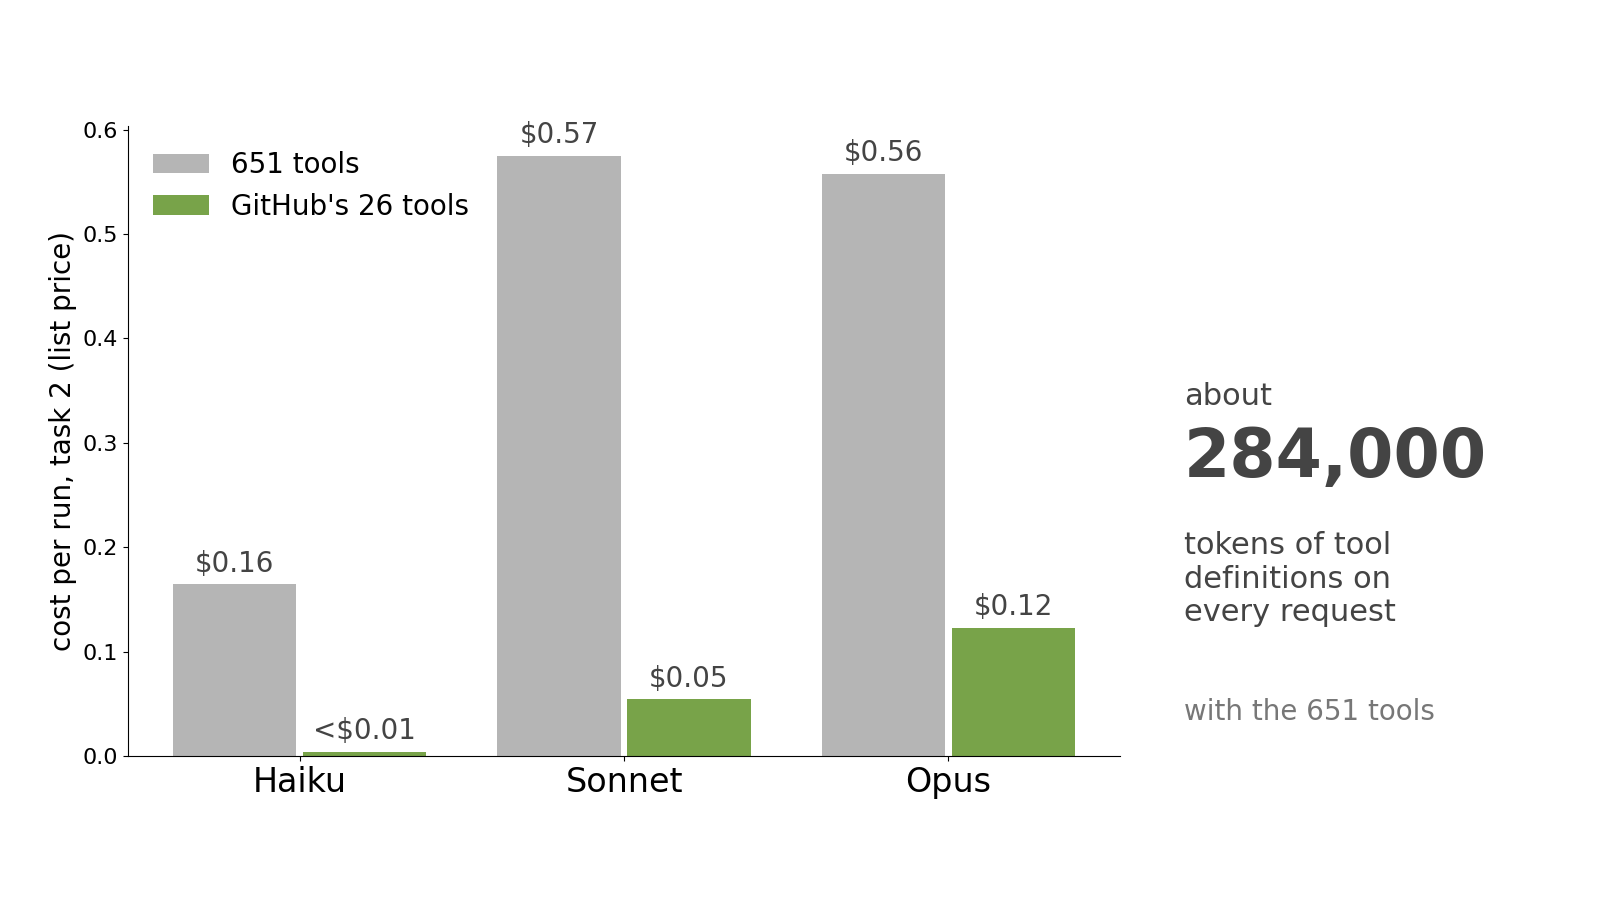
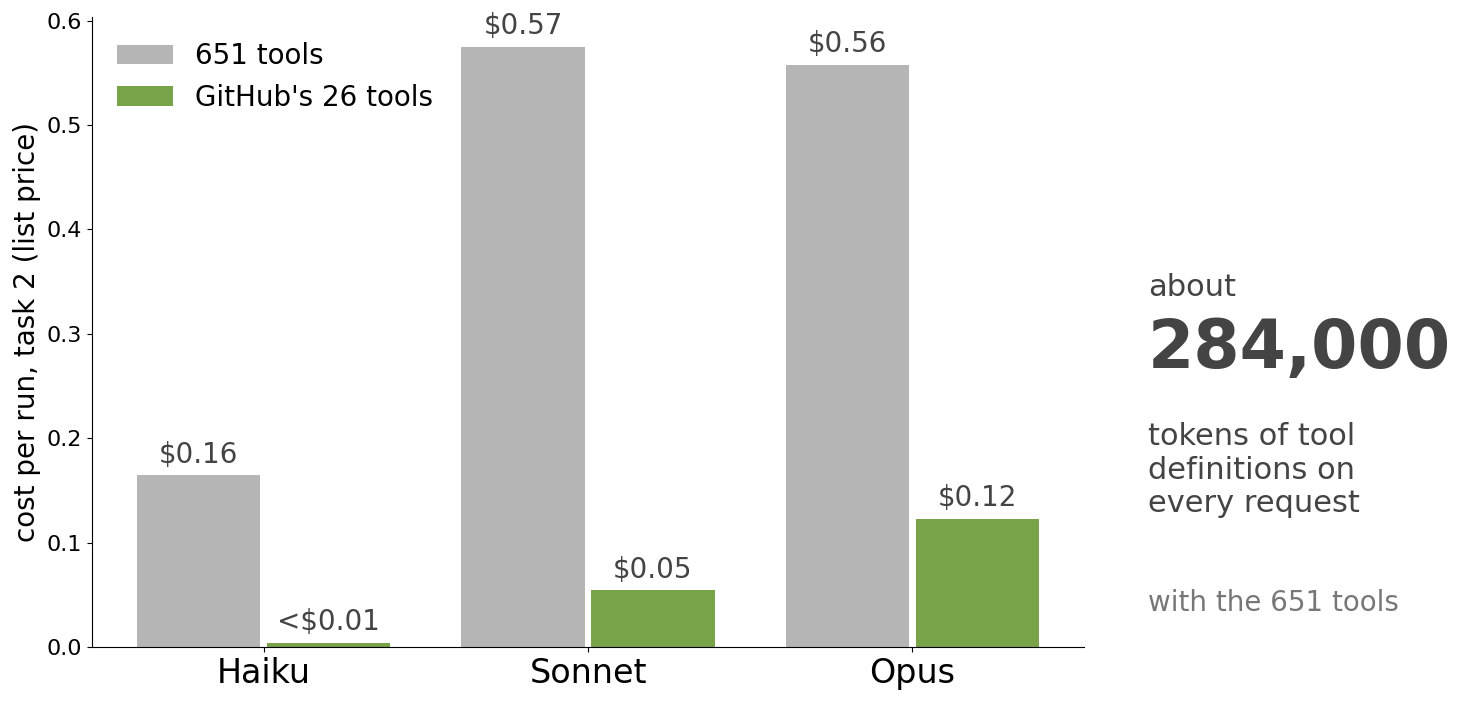
Make figures transparent and cropped; correct Haiku rate-limit finding

diff --git a/experiments/github-tool-abstraction/figures/make_figures.py b/experiments/github-tool-abstraction/figures/make_figures.py
@@ -81,7 +81,15 @@ def canvas():
 
 
 def save(fig, name):
-    fig.savefig(os.path.join(OUT, name), dpi=100, facecolor="white")
+    # transparent background, cropped to the drawing with a small margin
+    import io
+    from PIL import Image
+    buf = io.BytesIO()
+    fig.savefig(buf, dpi=100, transparent=True, format="png")
+    im = Image.open(buf).convert("RGBA")
+    l, t, r, b = im.getchannel("A").point(lambda a: 255 if a else 0).getbbox()
+    pad = 12
+    im.crop((max(l - pad, 0), max(t - pad, 0), min(r + pad, im.width), min(b + pad, im.height))).save(os.path.join(OUT, name))
     plt.close(fig)
     print("wrote", name)
 

diff --git a/experiments/github-tool-abstraction/FINDINGS.md b/experiments/github-tool-abstraction/FINDINGS.md
@@ -90,8 +90,12 @@ between these two dates?", got a yes or no (a count of 1 or 0), and narrowed
 the range until one day was left. That took 12 to 41 calls instead of one. They
 usually sent two searches at once (Sonnet, first run: 16 searches in 9 rounds).
 An account has only one creation date, so one search of such a pair was often
-known in advance to come back empty. Haiku got two of five wrong there,
-the only wrong answers in the whole grid. Tool count may not be the cause of
+known in advance to come back empty. Haiku did not reach the answer in two of
+five runs, the only misses in the whole grid. One ended with "2009-06-?? (day
+still to be determined)", the other with "UNKNOWN". Both had run into GitHub's
+search rate limit (7 and 5 error results). Two other Haiku runs hit it too and
+still got through, and Sonnet hit it in one run (3 errors) and finished. The
+workaround costs many calls, and the calls can run into a limit. Tool count may not be the cause of
 the cost difference, because the curated server also differs in descriptions
 and in how it shapes its responses.
 

diff --git a/README.md b/README.md
@@ -34,8 +34,9 @@ What the traces show, in short:
   more per run on the longer task and produced more different call sequences.
 - GitHub's server was cheaper and steadier on the longer task, but has no way to
   look up a user by name. On the short task the models worked around that with a
-  binary search over date ranges, using many more calls, and the smallest model
-  got two of five answers wrong.
+  binary search over date ranges, using many more calls. The smallest model did
+  not reach the answer in two of five runs, after running into GitHub's search
+  rate limit.
 
 ## Limits
 
